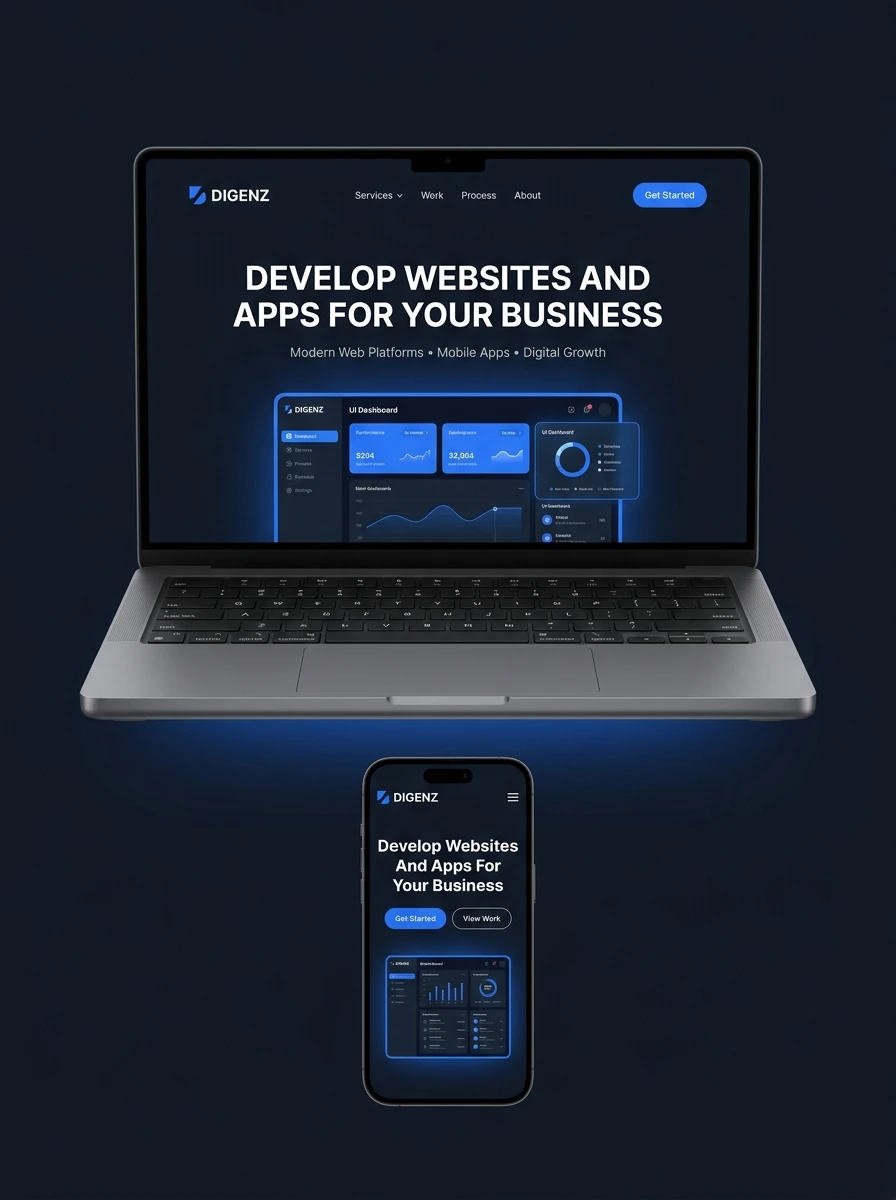
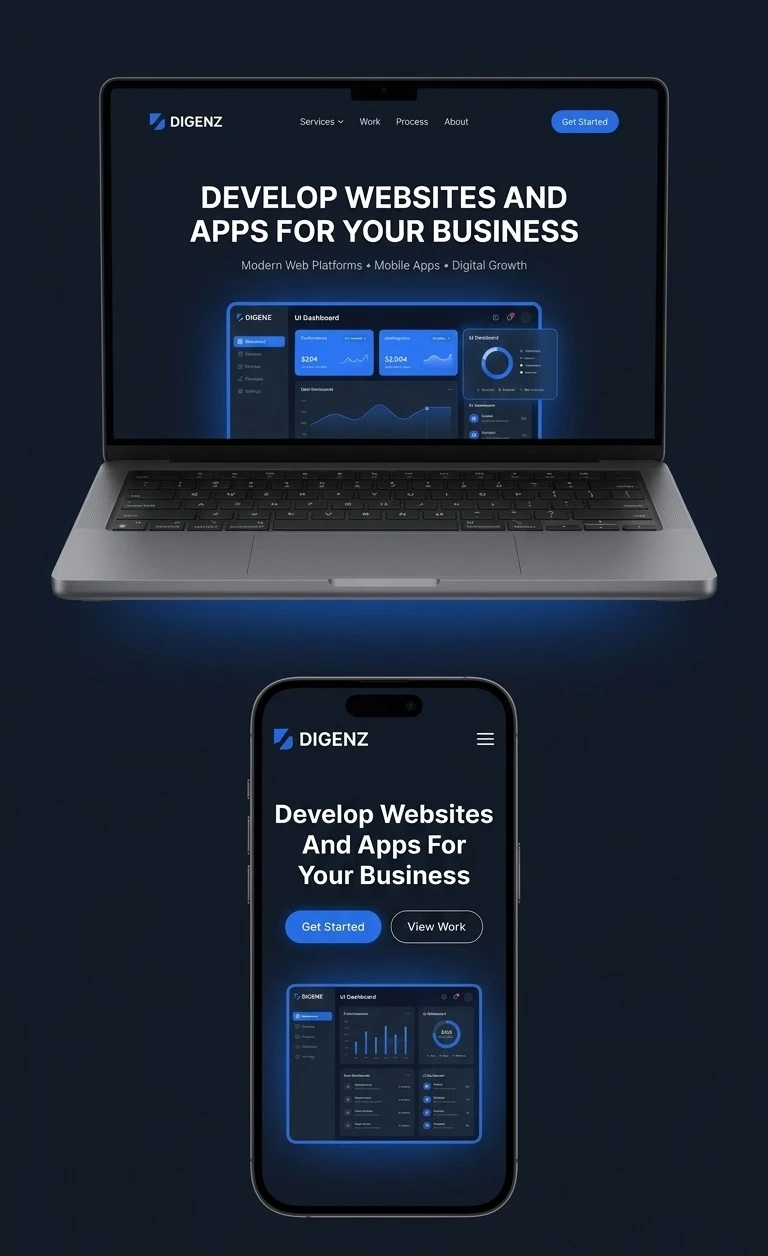
feat(webtech): enlarge smartphone mockup beneath laptop in Agile Approach section (v=7.3)

diff --git a/index.htm b/index.htm
@@ -23,8 +23,8 @@
 <link rel="apple-touch-icon" sizes="180x180" href="https://www.digendigital.com/apple-touch-icon.png">
 <link rel="manifest" href="https://www.digendigital.com/site.webmanifest">
 <meta name="theme-color" content="#101827">
-<link href="assets/css/m-style.css?v=7.2" rel="stylesheet" type="text/css">
-<link href="assets/css/style.css?v=7.2" rel="stylesheet" type="text/css">
+<link href="assets/css/m-style.css?v=7.3" rel="stylesheet" type="text/css">
+<link href="assets/css/style.css?v=7.3" rel="stylesheet" type="text/css">
 <link href="https://fonts.googleapis.com/css?family=Bai+Jamjuree:300,400,500,600,700|Libre+Franklin:400,500,600,700,800,900&amp;display=swap&amp;display=swap" rel="stylesheet">
 <link rel='stylesheet' id='main-style-css' href='https://cdnjs.cloudflare.com/ajax/libs/font-awesome/4.7.0/css/font-awesome.css' type="text/css">
 <!--[if IE]>
@@ -6300,7 +6300,7 @@
           <div id="wordpress" class="selected tab-content-panel">
             <div class="tabcon">
               <figure>
-                <img src="assets/images/time-and-material-web.jpg?v=7.2" class="w-100" alt="DIGENZ Multi-Device Web Development Solutions">
+                <img src="assets/images/time-and-material-web.jpg?v=7.3" class="w-100" alt="DIGENZ Multi-Device Web Development Solutions">
               </figure>
             </div>
           </div>
@@ -6896,7 +6896,7 @@
 
 
 
-</div><script src="/assets/js/digenz-live.js?v=7.2" defer></script>
+</div><script src="/assets/js/digenz-live.js?v=7.3" defer></script>
 
 <!-- DIGENZ Official Floating WhatsApp Button -->
 <a href="https://wa.me/923190039048?text=Hi%20DIGENZ%2C%20I%20am%20interested%20in%20your%20services.%20Please%20share%20more%20information." 

diff --git a/index.html b/index.html
@@ -23,8 +23,8 @@
 <link rel="apple-touch-icon" sizes="180x180" href="https://www.digendigital.com/apple-touch-icon.png">
 <link rel="manifest" href="https://www.digendigital.com/site.webmanifest">
 <meta name="theme-color" content="#101827">
-<link href="assets/css/m-style.css?v=7.2" rel="stylesheet" type="text/css">
-<link href="assets/css/style.css?v=7.2" rel="stylesheet" type="text/css">
+<link href="assets/css/m-style.css?v=7.3" rel="stylesheet" type="text/css">
+<link href="assets/css/style.css?v=7.3" rel="stylesheet" type="text/css">
 <link href="https://fonts.googleapis.com/css?family=Bai+Jamjuree:300,400,500,600,700|Libre+Franklin:400,500,600,700,800,900&amp;display=swap&amp;display=swap" rel="stylesheet">
 <link rel='stylesheet' id='main-style-css' href='https://cdnjs.cloudflare.com/ajax/libs/font-awesome/4.7.0/css/font-awesome.css' type="text/css">
 <!--[if IE]>
@@ -6300,7 +6300,7 @@
           <div id="wordpress" class="selected tab-content-panel">
             <div class="tabcon">
               <figure>
-                <img src="assets/images/time-and-material-web.jpg?v=7.2" class="w-100" alt="DIGENZ Multi-Device Web Development Solutions">
+                <img src="assets/images/time-and-material-web.jpg?v=7.3" class="w-100" alt="DIGENZ Multi-Device Web Development Solutions">
               </figure>
             </div>
           </div>
@@ -6896,7 +6896,7 @@
 
 
 
-</div><script src="/assets/js/digenz-live.js?v=7.2" defer></script>
+</div><script src="/assets/js/digenz-live.js?v=7.3" defer></script>
 
 <!-- DIGENZ Official Floating WhatsApp Button -->
 <a href="https://wa.me/923190039048?text=Hi%20DIGENZ%2C%20I%20am%20interested%20in%20your%20services.%20Please%20share%20more%20information." 
